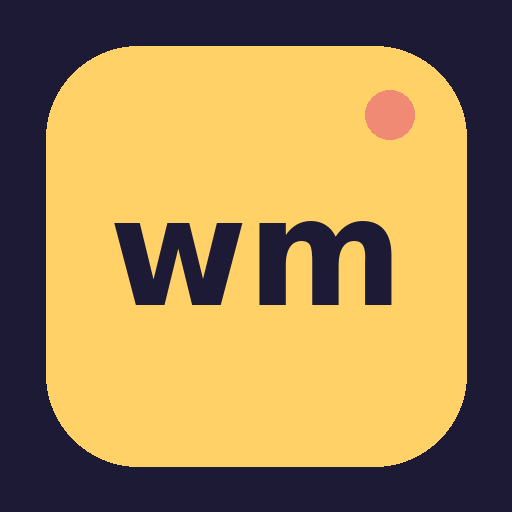
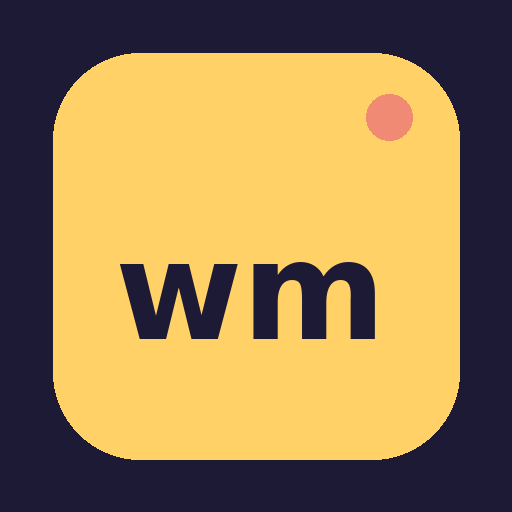
Fix Expo startup and unify wm app branding

diff --git a/app.config.ts b/app.config.ts
@@ -31,7 +31,7 @@ const env = {
   appName: "wm Store",
   appSlug: "wmstore",
   // Durable project-logo metadata for the wm brand.
-  logoUrl: "https://files.manuscdn.com/user_upload_by_module/session_file/310519664000353225/rrXHWxlpCBnsJhJx.png",
+  logoUrl: "https://files.manuscdn.com/user_upload_by_module/session_file/310519664000353225/ltpXhoiPKtccBvMW.png",
   scheme: schemeFromBundleId,
   iosBundleId: bundleId,
   androidPackage: bundleId,
@@ -107,6 +107,12 @@ const config: ExpoConfig = {
     "expo-asset",
     "expo-router",
     [
+      "expo-image-picker",
+      {
+        photosPermission: "السماح لـ wm باختيار صورة البروفايل.",
+      },
+    ],
+    [
       "expo-audio",
       {
         microphonePermission: "Allow $(PRODUCT_NAME) to access your microphone.",
@@ -125,9 +131,9 @@ const config: ExpoConfig = {
         image: "./assets/images/splash-icon.png",
         imageWidth: 200,
         resizeMode: "contain",
-        backgroundColor: "#ffffff",
+        backgroundColor: "#1D1A35",
         dark: {
-          backgroundColor: "#000000",
+          backgroundColor: "#1D1A35",
         },
       },
     ],

diff --git a/plan.md b/plan.md
@@ -1,3 +1,3 @@
 
-## تجربة الحساب الجديدة
-تم استبدال زر الإعدادات التقليدي بصورة عميل دائرية في رأس المتجر، مع وضع شعار wm في الجهة المقابلة. الضغط على الصورة يفتح قائمة جانبية قصيرة تحتوي على حسابي، إعدادات الواجهة، الدعم، الاستفسارات، وتسجيل الخروج. يمكن تغيير صورة البروفايل من الصورة الكبيرة داخل القائمة، وتُحفظ محليًا على الجهاز. ألوان التجربة الرئيسية مستمدة من الشعار: الكحلي `#1D1A35`، الأصفر `#FFD166`، والمرجاني `#F08A75`.
+## هوية التطبيق
+تم توحيد أيقونة التطبيق الرئيسية، أيقونة Android التكيفية، الأيقونة الأحادية، favicon، وشاشة البداية مع شعار wm نفسه، باستخدام الكحلي `#1D1A35` والأصفر `#FFD166` والمرجاني `#F08A75`.

diff --git a/TODO.md b/TODO.md
@@ -17,3 +17,5 @@
 - [x] فتح قائمة جانبية من صورة العميل تشمل الحساب وإعدادات الواجهة والدعم والاستفسار وتسجيل الخروج.
 - [x] إتاحة تغيير صورة البروفايل من الجهاز وحفظها محليًا.
 - [x] توحيد ألوان المتجر مع ألوان شعار wm.
+- [x] توحيد أيقونة التطبيق وشاشة البداية وأيقونات Android مع شعار متجر wm.
+- [x] تحديث expo-image-picker إلى الإصدار المتوافق مع Expo وإضافة صلاحية اختيار الصور.
